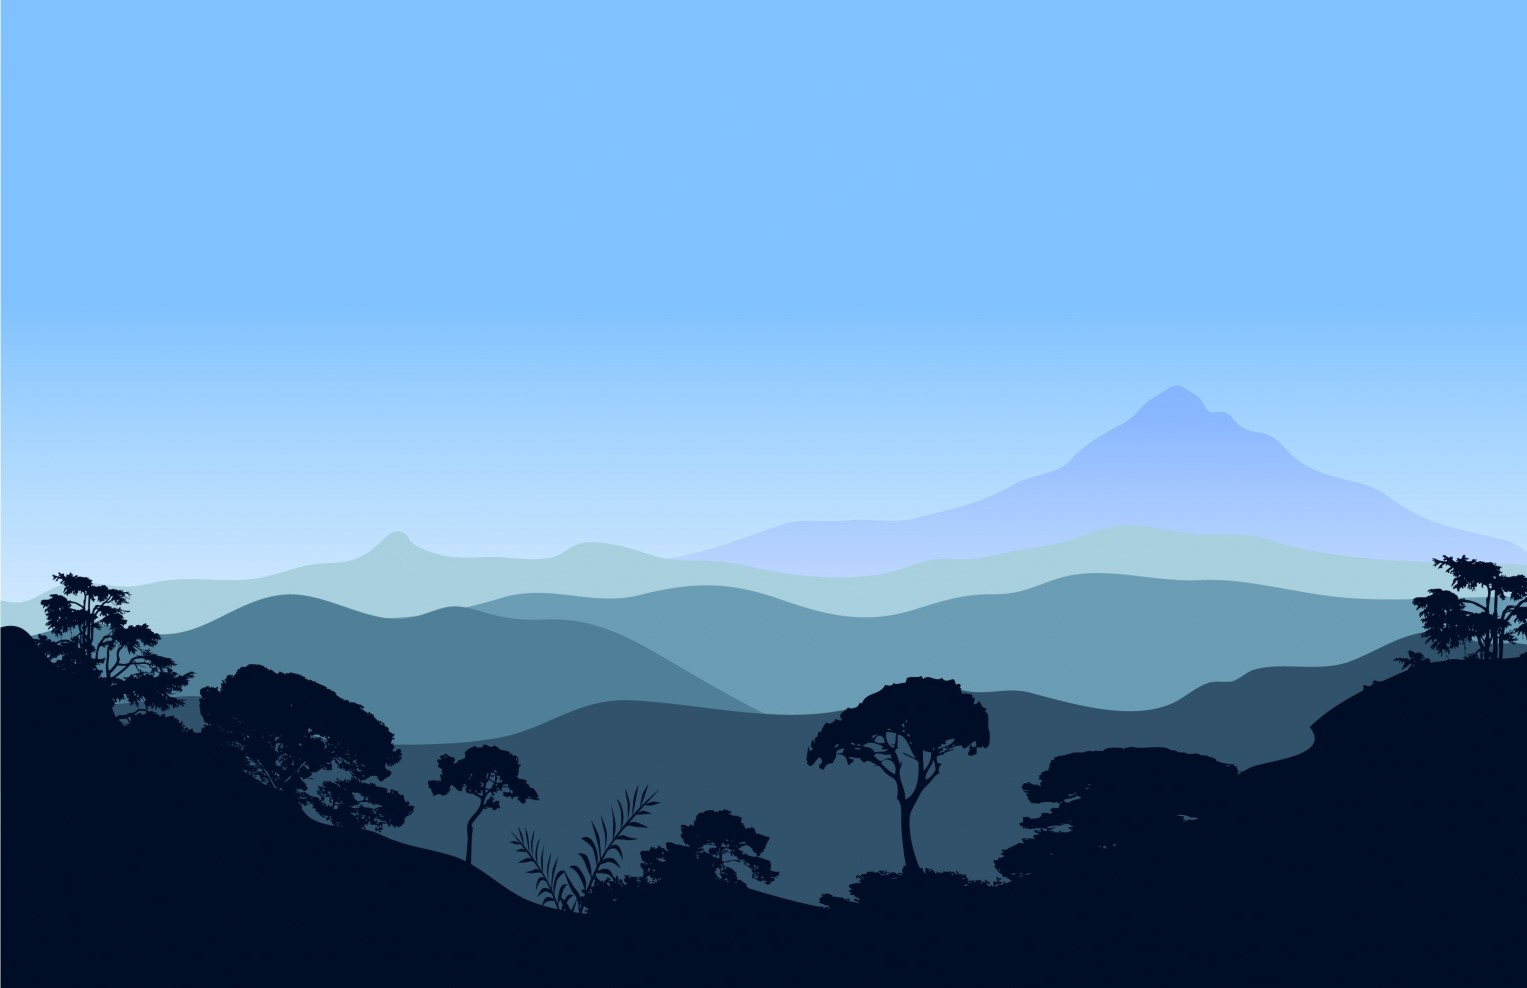
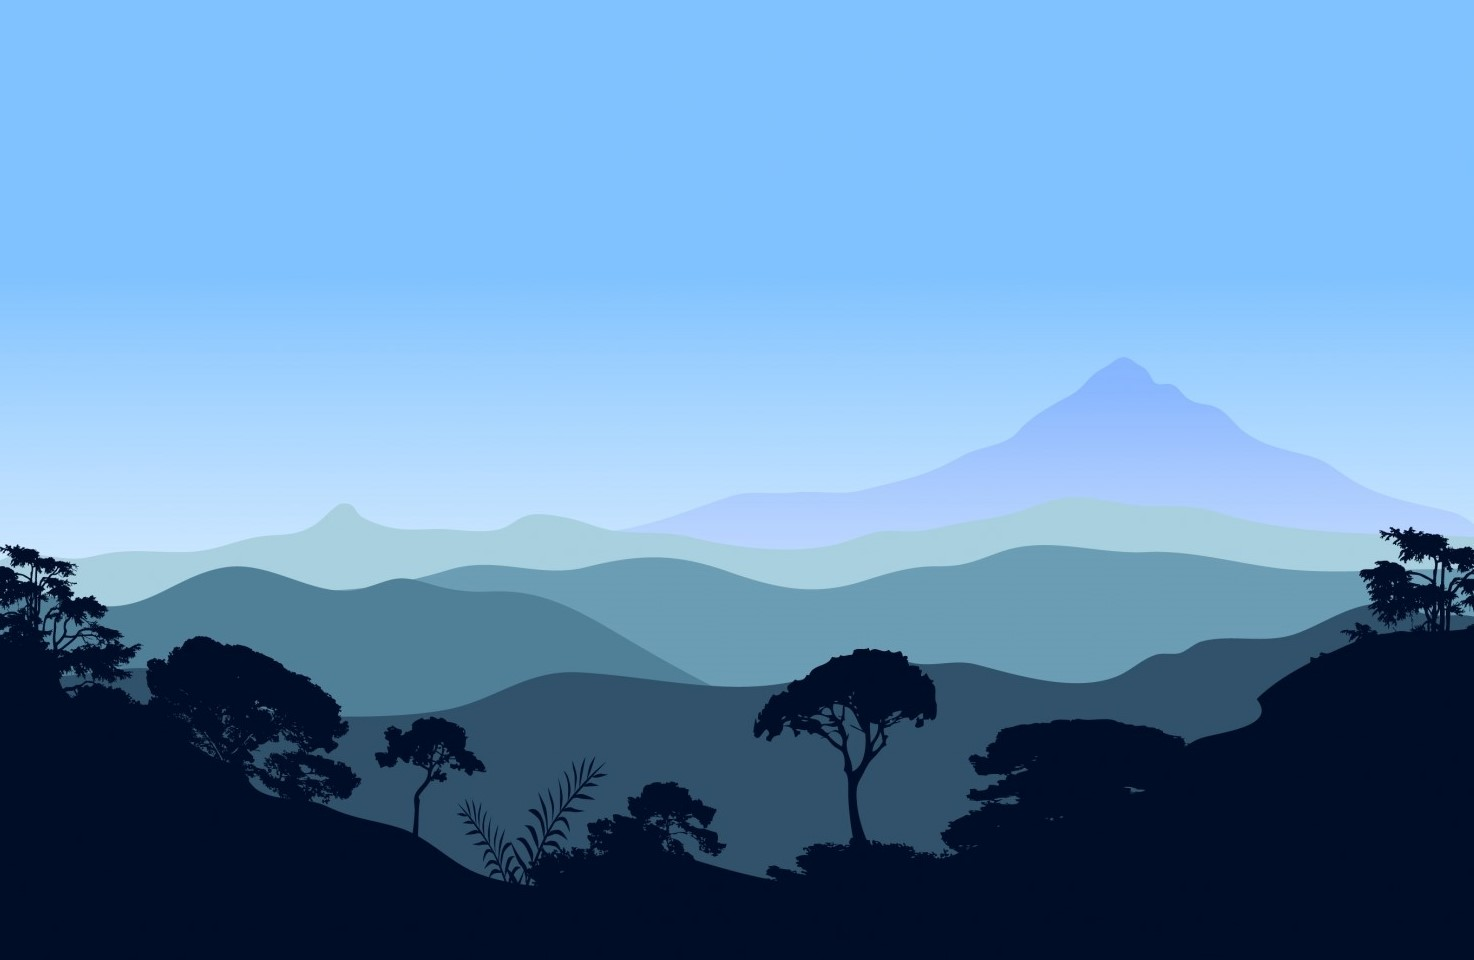
modified background image

Changed region(s): [[0.0, 0.5, 1.0, 0.9375], [0.7178, 0.4062, 0.749, 0.4375]]

diff --git a/docs/index.css b/docs/index.css
@@ -16,10 +16,12 @@ body
 #bgimg
 {
 	position:absolute;
-	margin-left: -5px;
+	left:50%;
+	margin-left: -750px;
 	z-index:0;
 	
 }
+
 
 #Image4
 {

diff --git a/docs/gameplay.css b/docs/gameplay.css
@@ -16,7 +16,8 @@ body
 #bgimg
 {
 	position:absolute;
-	margin-left: -5px;
+	left:50%;
+	margin-left: -750px;
 	z-index:0;
 	
 }

diff --git a/docs/leaderboard.css b/docs/leaderboard.css
@@ -16,7 +16,8 @@ body
 #bgimg
 {
 	position:absolute;
-	margin-left: -5px;
+	left:50%;
+	margin-left: -750px;
 	z-index:0;
 	
 }
